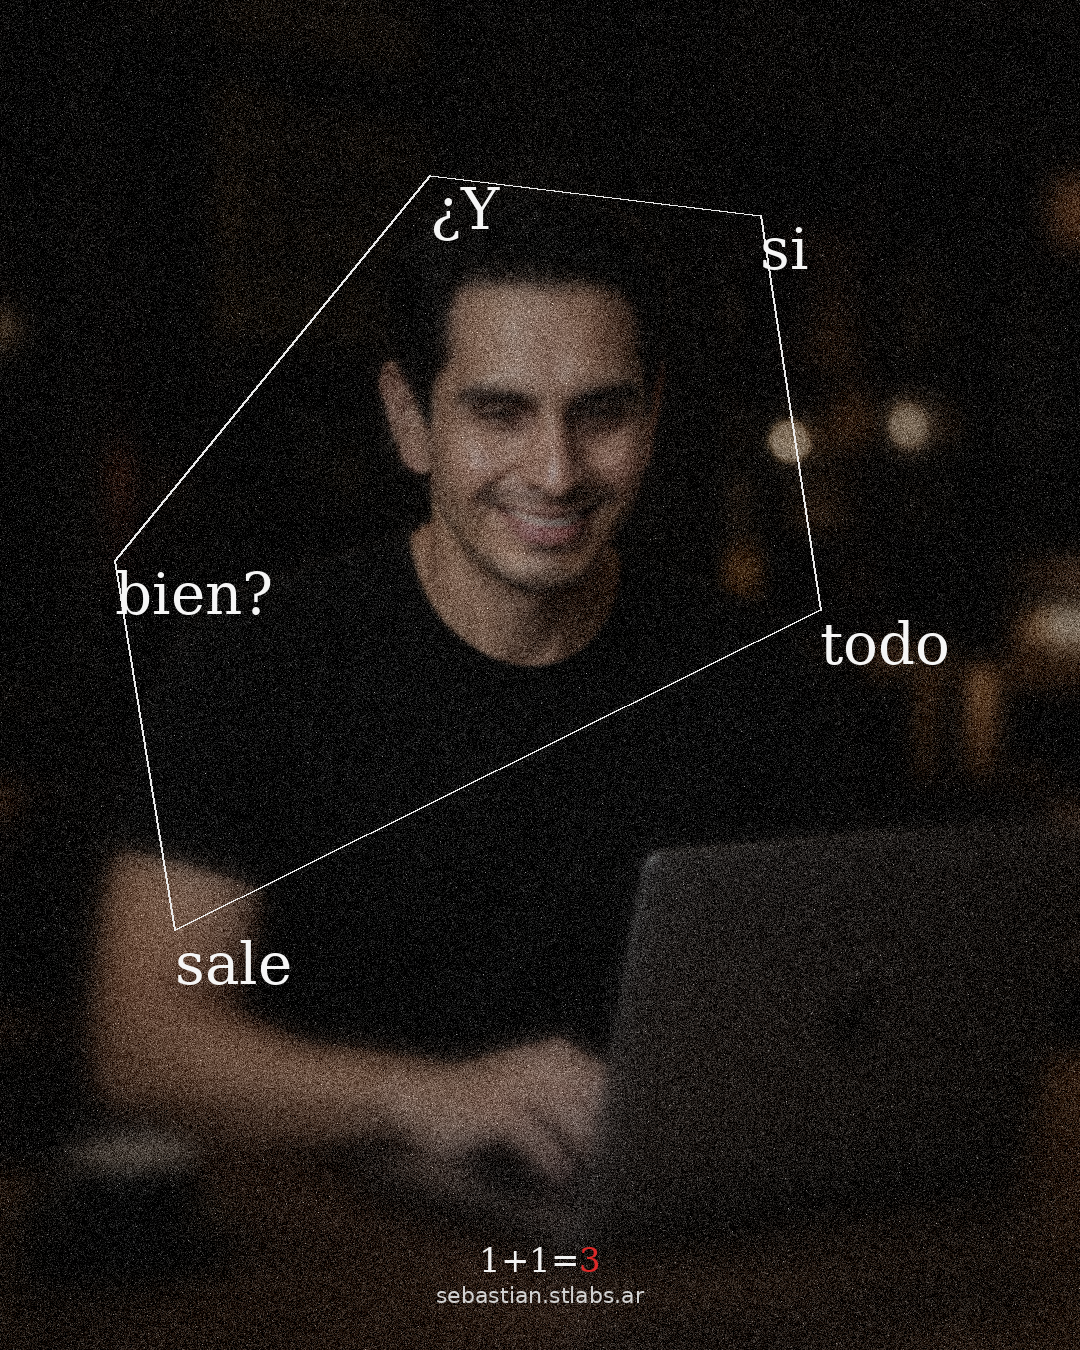
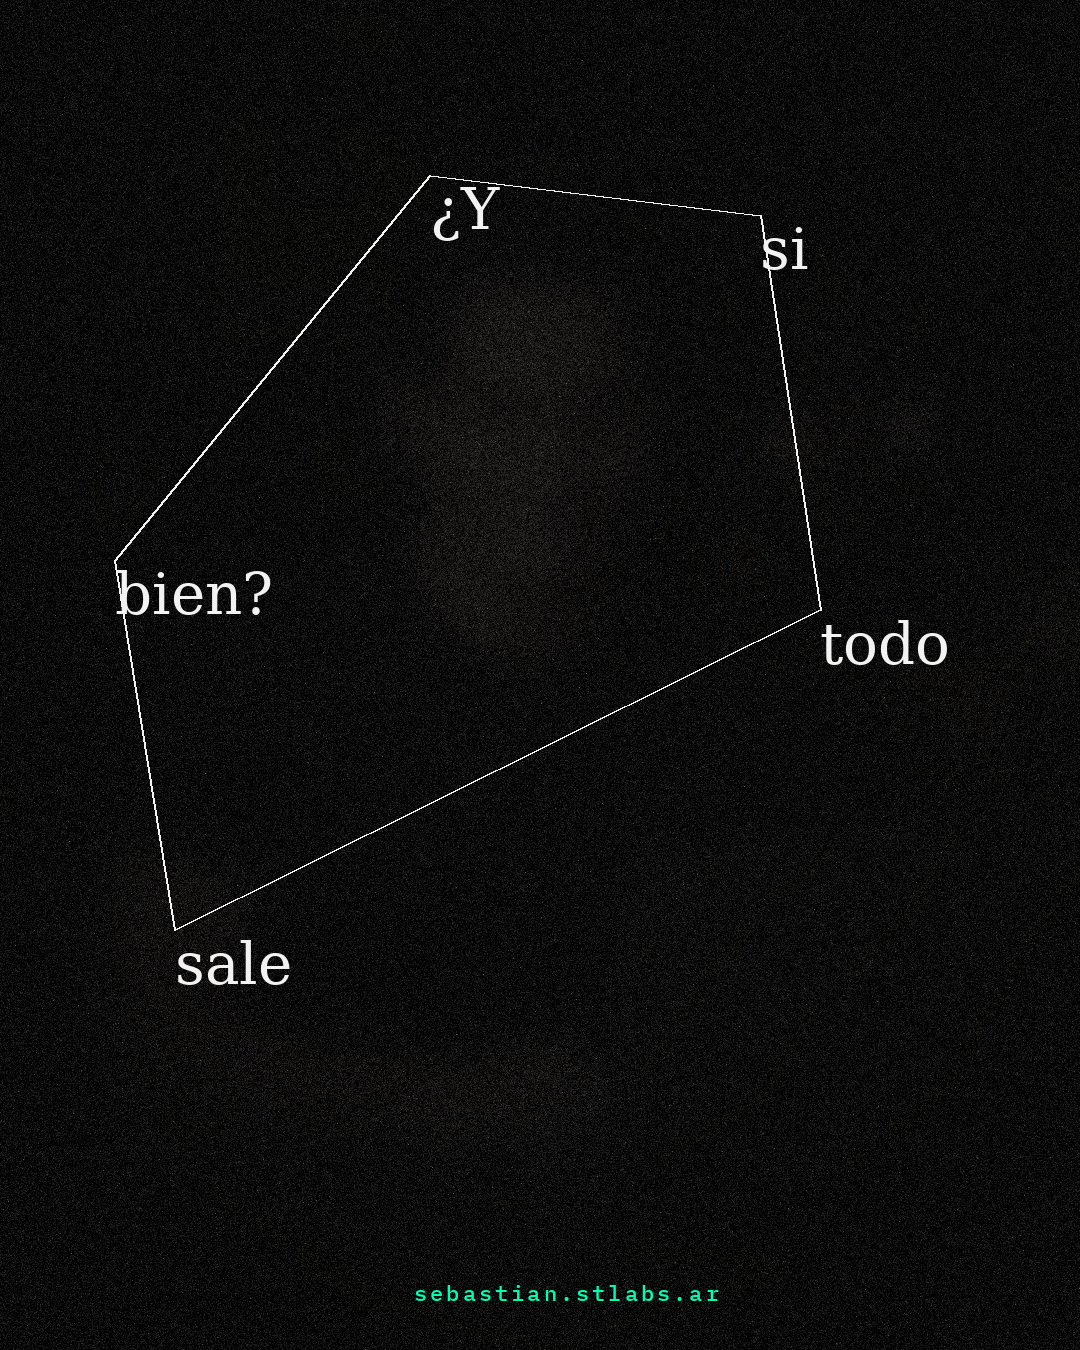
Slides frases: fondo negro, firma STLabs, Sebastián sutil en portada

diff --git a/scripts/sebastian_frases_recrear.py b/scripts/sebastian_frases_recrear.py
@@ -1,8 +1,7 @@
 #!/usr/bin/env python3
-"""Recrea slides estilo referencia (¿Y si todo sale bien? / Esta en tu poder…) con foto Sebastián, sin verde."""
+"""Slides frases — fondo negro, firma STLabs, portada con Sebastián sutil."""
 from __future__ import annotations
 
-import shutil
 from pathlib import Path
 
 import cv2
@@ -13,19 +12,30 @@ PHOTO = Path("/workspace/resultados/sebastian-cafe-cinematic/sebastian-cinematic
 OUT_DIR = Path("/workspace/resultados/sebastian-frases-recrear")
 ARTIFACTS = Path("/opt/cursor/artifacts/assets")
 SERIF = "/usr/share/fonts/truetype/dejavu/DejaVuSerif.ttf"
-SERIF_BOLD = "/usr/share/fonts/truetype/dejavu/DejaVuSerif-Bold.ttf"
-SANS = "/usr/share/fonts/truetype/dejavu/DejaVuSans.ttf"
+MONO = Path("/tmp/stlabs-fonts/IBMPlexMono-Medium.ttf")
 
 W, H = 1080, 1350
-DARKEN = 0.72
-BLUR_BG = 14.0
-BLUR_SUBJECT = 2.0
-VIGNETTE = 0.28
-DESAT = 0.42
-GRAIN = 24
+BLACK = (10, 10, 10)
+GREEN = (0, 255, 178)
+WHITE = (242, 242, 242)
+GRAIN = 14
 
 
-def prepare_background(path: Path) -> Image.Image:
+def black_canvas() -> Image.Image:
+    return Image.new("RGB", (W, H), BLACK)
+
+
+def add_grain(im: Image.Image, seed: int = 42) -> Image.Image:
+    arr = np.array(im).astype(np.float32)
+    rng = np.random.default_rng(seed)
+    arr += rng.normal(0, GRAIN, arr.shape[:2])[..., np.newaxis]
+    specks = rng.random(arr.shape[:2]) < 0.0012
+    arr[specks] = np.minimum(arr[specks] + 55, 255)
+    return Image.fromarray(np.clip(arr, 0, 255).astype(np.uint8))
+
+
+def subtle_sebastian_layer(path: Path, opacity: float = 0.22) -> Image.Image:
+    """Foto muy tenue: blur fuerte, oscura, desaturada, bajo opacidad."""
     im = Image.open(path).convert("RGB")
     iw, ih = im.size
     target = W / H
@@ -34,61 +44,45 @@ def prepare_background(path: Path) -> Image.Image:
         im = im.crop(((iw - nw) // 2, 0, (iw + nw) // 2, ih))
     else:
         nh = int(iw / target)
-        y0 = max(0, int(ih * 0.18) - (nh - ih) // 2)
+        y0 = max(0, int(ih * 0.12) - (nh - ih) // 2)
         im = im.crop((0, y0, iw, min(ih, y0 + nh)))
     im = im.resize((W, H), Image.Resampling.LANCZOS)
 
-    arr = np.array(im)
-    light = cv2.GaussianBlur(arr, (0, 0), BLUR_SUBJECT).astype(np.float32)
-    heavy = cv2.GaussianBlur(arr, (0, 0), BLUR_BG).astype(np.float32)
-    cx, cy = W * 0.5, H * 0.42
-    xs = (np.arange(W, dtype=np.float32) - cx) / (W * 0.52)
-    ys = (np.arange(H, dtype=np.float32) - cy) / (H * 0.50)
+    arr = cv2.GaussianBlur(np.array(im), (0, 0), 18).astype(np.float32)
+    arr *= 0.55
+    gray = arr.mean(axis=2, keepdims=True)
+    arr = arr * 0.35 + gray * 0.65
+
+    # viñeta fuerte → negro en bordes
+    xs = (np.arange(W, dtype=np.float32) - W * 0.5) / (W * 0.62)
+    ys = (np.arange(H, dtype=np.float32) - H * 0.44) / (H * 0.58)
     dist = np.sqrt(xs[np.newaxis, :] ** 2 + ys[:, np.newaxis] ** 2)
-    mask = np.clip((dist - 0.04) / 0.96, 0, 1) ** 1.1
-    m3 = mask[..., np.newaxis]
-    out = light * (1 - m3) + heavy * m3
-    out *= DARKEN
+    vig = 1.0 - np.clip(dist, 0, 1) ** 1.5 * 0.92
+    arr *= vig[..., np.newaxis]
 
-    # viñeta
-    xs2 = (np.arange(W, dtype=np.float32) - W * 0.5) / (W * 0.72)
-    ys2 = (np.arange(H, dtype=np.float32) - H * 0.46) / (H * 0.78)
-    d2 = np.sqrt(xs2[np.newaxis, :] ** 2 + ys2[:, np.newaxis] ** 2)
-    vig = 1.0 - np.clip(d2, 0, 1) ** 1.35 * VIGNETTE
-    out *= vig[..., np.newaxis]
-
-    # desaturar (look film, sin verde)
-    gray = out.mean(axis=2, keepdims=True)
-    out = out * (1 - DESAT) + gray * DESAT
-
-    rng = np.random.default_rng(42)
-    noise = rng.normal(0, GRAIN, out.shape[:2])
-    for c in range(3):
-        out[:, :, c] += noise
-    specks = rng.random(out.shape[:2]) < 0.0018
-    out[specks] = np.minimum(out[specks] + 90, 255)
-
-    return Image.fromarray(np.clip(out, 0, 255).astype(np.uint8))
+    photo = Image.fromarray(np.clip(arr, 0, 255).astype(np.uint8))
+    base = black_canvas().convert("RGBA")
+    photo_rgba = photo.convert("RGBA")
+    photo_rgba.putalpha(int(255 * opacity))
+    return Image.alpha_composite(base, photo_rgba).convert("RGB")
 
 
-def draw_branding(draw: ImageDraw.ImageDraw, y_base: int = H - 110) -> None:
-    f_eq = ImageFont.truetype(SERIF, 34)
-    f_handle = ImageFont.truetype(SANS, 22)
-    eq = "1+1="
-    three = "3"
-    handle = "sebastian.stlabs.ar"
-    w_eq = draw.textlength(eq, font=f_eq)
-    w3 = draw.textlength(three, font=f_eq)
-    total = w_eq + w3
-    x = (W - total) // 2
-    draw.text((x, y_base), eq, font=f_eq, fill=(242, 242, 242))
-    draw.text((x + w_eq, y_base), three, font=f_eq, fill=(220, 40, 40))
-    hw = draw.textlength(handle, font=f_handle)
-    draw.text(((W - hw) // 2, y_base + 42), handle, font=f_handle, fill=(210, 210, 210))
+def draw_firma(draw: ImageDraw.ImageDraw, y: int = H - 72) -> None:
+    font = ImageFont.truetype(str(MONO), 22)
+    text = "sebastian.stlabs.ar"
+    tw = draw.textlength(text, font=font)
+    x = (W - tw) // 2
+    # letter-spacing manual
+    spacing = 3
+    cx = x
+    for ch in text:
+        draw.text((cx, y), ch, font=font, fill=GREEN)
+        cx += draw.textlength(ch, font=font) + spacing
 
 
-def slide_01(base: Image.Image) -> Image.Image:
-    im = base.copy()
+def slide_01_portada() -> Image.Image:
+    im = subtle_sebastian_layer(PHOTO, opacity=0.20)
+    im = add_grain(im, seed=42)
     draw = ImageDraw.Draw(im)
     font = ImageFont.truetype(SERIF, 58)
 
@@ -102,17 +96,17 @@ def slide_01(base: Image.Image) -> Image.Image:
     order = ["¿Y", "si", "todo", "sale", "bien?", "¿Y"]
     pts = [nodes[k] for k in order]
     for i in range(len(pts) - 1):
-        draw.line([pts[i], pts[i + 1]], fill=(235, 235, 235), width=2)
+        draw.line([pts[i], pts[i + 1]], fill=WHITE, width=2)
 
     for word, (x, y) in nodes.items():
-        draw.text((x, y), word, font=font, fill=(245, 245, 245))
+        draw.text((x, y), word, font=font, fill=WHITE)
 
-    draw_branding(draw)
+    draw_firma(draw)
     return im
 
 
-def slide_02(base: Image.Image) -> Image.Image:
-    im = base.copy()
+def slide_02_fondo_negro() -> Image.Image:
+    im = add_grain(black_canvas(), seed=77)
     draw = ImageDraw.Draw(im)
     font = ImageFont.truetype(SERIF, 56)
     lines = [
@@ -125,17 +119,15 @@ def slide_02(base: Image.Image) -> Image.Image:
     y0 = (H - total_h) // 2 - 40
     for i, line in enumerate(lines):
         tw = draw.textlength(line, font=font)
-        draw.text(((W - tw) // 2, y0 + i * lh), line, font=font, fill=(245, 245, 245))
-    draw_branding(draw)
+        draw.text(((W - tw) // 2, y0 + i * lh), line, font=font, fill=WHITE)
+    draw_firma(draw)
     return im
 
 
 def main() -> None:
     OUT_DIR.mkdir(parents=True, exist_ok=True)
-    base = prepare_background(PHOTO)
-
-    s1 = slide_01(base)
-    s2 = slide_02(base)
+    s1 = slide_01_portada()
+    s2 = slide_02_fondo_negro()
 
     p1 = OUT_DIR / "slide-01-y-si-todo-sale-bien.png"
     p2 = OUT_DIR / "slide-02-esta-en-tu-poder.png"
